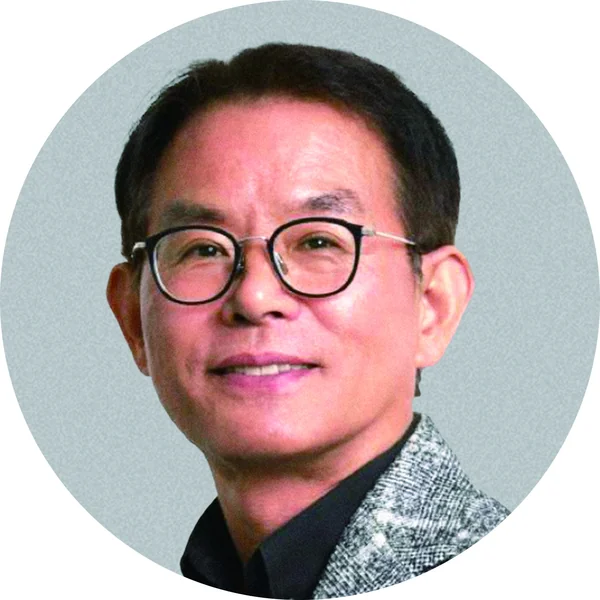
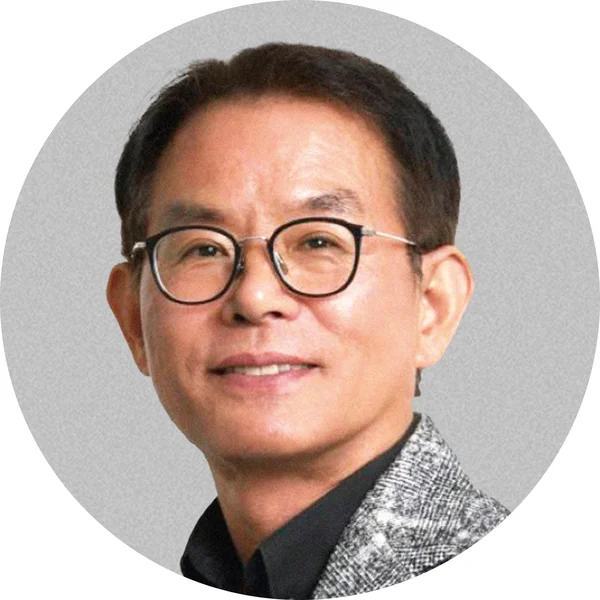
2025 일본 전공연수: 교수진·현장 답사 사진 색 바로잡음 — 리플렛의 CMYK(Japan Color 2001 Coated)를 ICC 프로필로 sRGB 변환 (전에는 프로필 없이 바꿔 푸른빛)

diff --git a/2025/src/app/2025/_components/global.ts b/2025/src/app/2025/_components/global.ts
@@ -1,7 +1,8 @@
 // 2025 일본 전공연수(Global Design Intelligence Exchange 2025 Japan) 페이지의 나머지 내용 — 프레이머 /projects-global_design
 // 과목 정보·프로그램 개요/주제·참여 프로젝트는 categories.ts의 global-design. 여기는 영상·교수진·현장 답사·일본 학생 작품
 // 2026-10-30 프레이머에 보이는 글 그대로 읽음 (숨김 레이어 제외), 띄어쓰기만 고침(오사카 국제박람회·팀랩)
-// 사진(2026-10-31): 사용자가 준 드라이브 "일본관련" 폴더만 씀 — 교수진·현장 답사는 리플렛(태산인디고 리플렛.ai)에 든 사진을 꺼냄, 일본 학생 작품은 jpg 3장
+// 사진(2026-10-31): 사용자가 준 드라이브 "일본관련" 폴더만 씀 — 교수진·현장 답사는 리플렛(태산인디고 리플렛.ai)에 든 사진을 꺼냄
+//   리플렛 사진은 인쇄용 CMYK(Japan Color 2001 Coated) → 반드시 그 ICC 프로필로 sRGB 변환해야 색이 맞음 (2026-10-31 그냥 꺼냈다가 푸른빛으로 틀어져 다시 변환), 일본 학생 작품은 jpg 3장
 // 화면: GlobalSections.tsx
 
 export const GLOBAL_VIDEO = "ZF16vfddQRw"; // 프레이머 YouTube 컴포넌트
